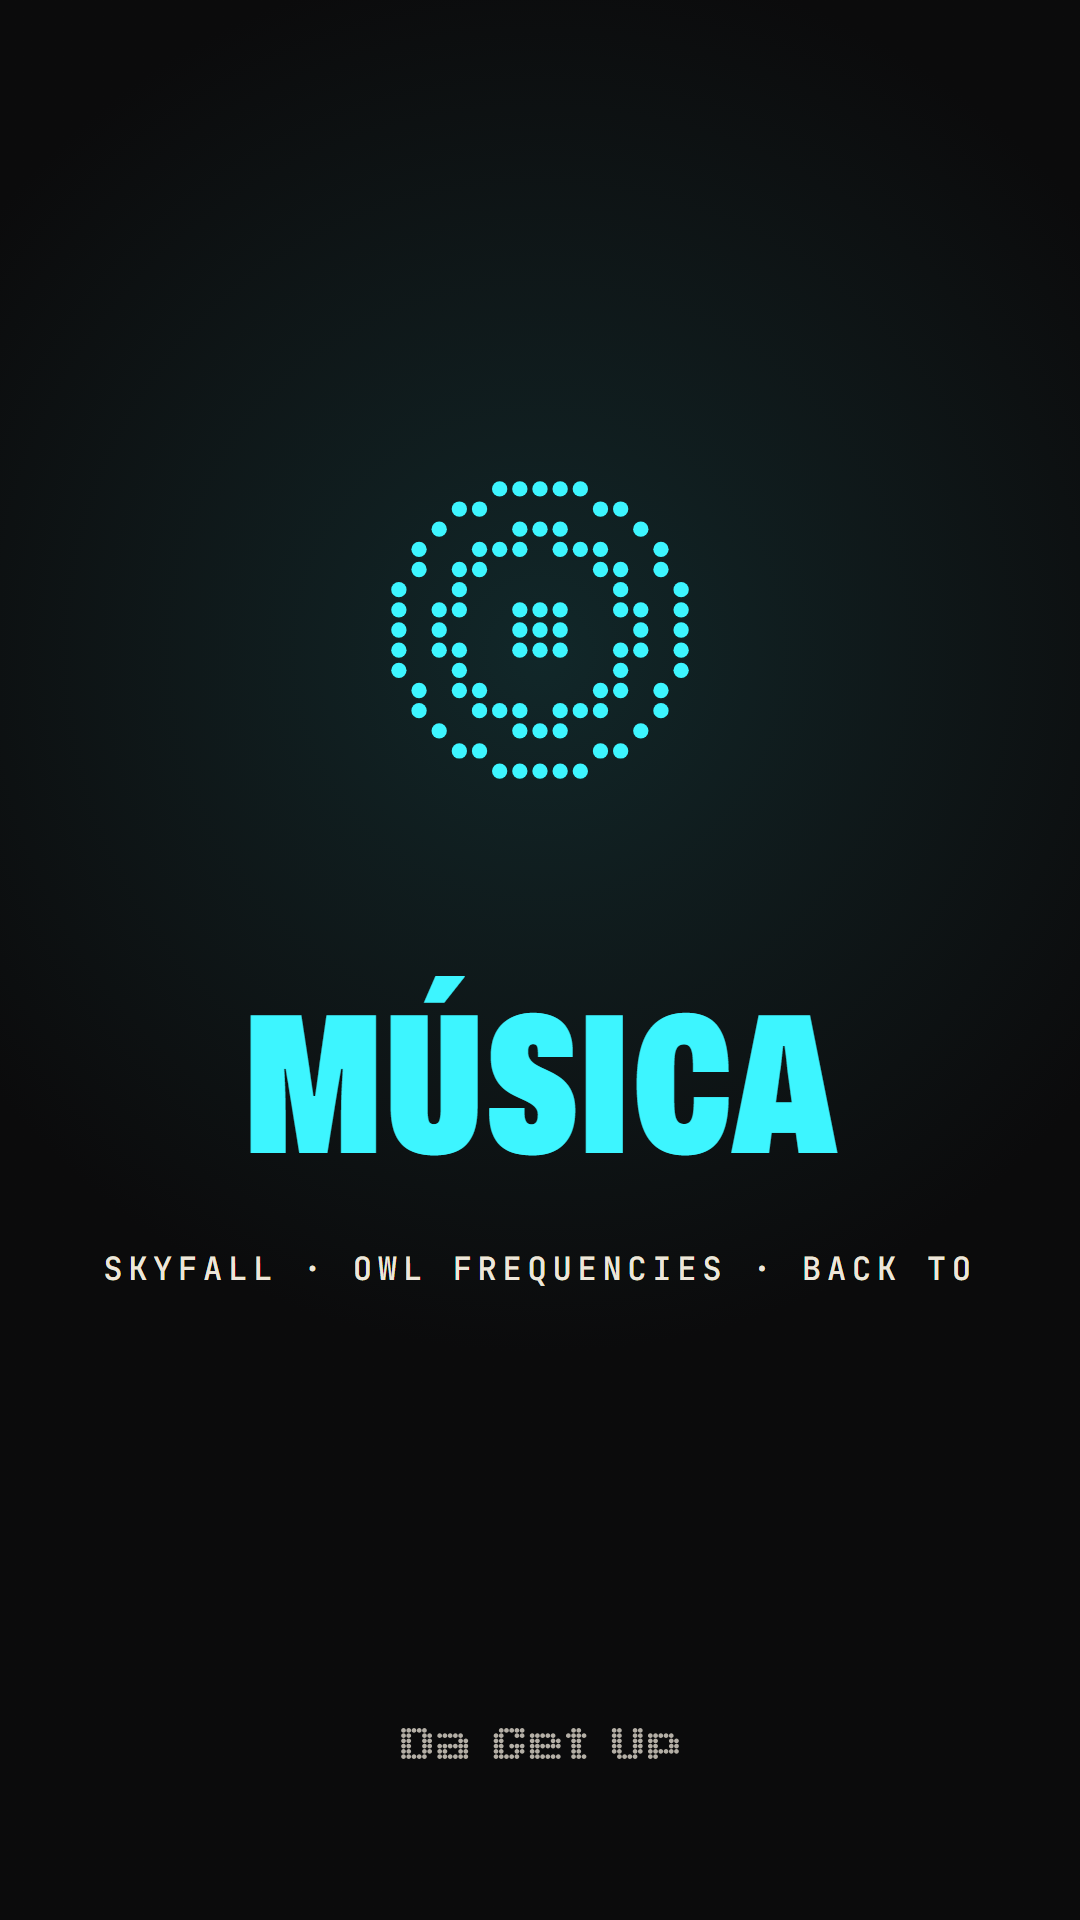
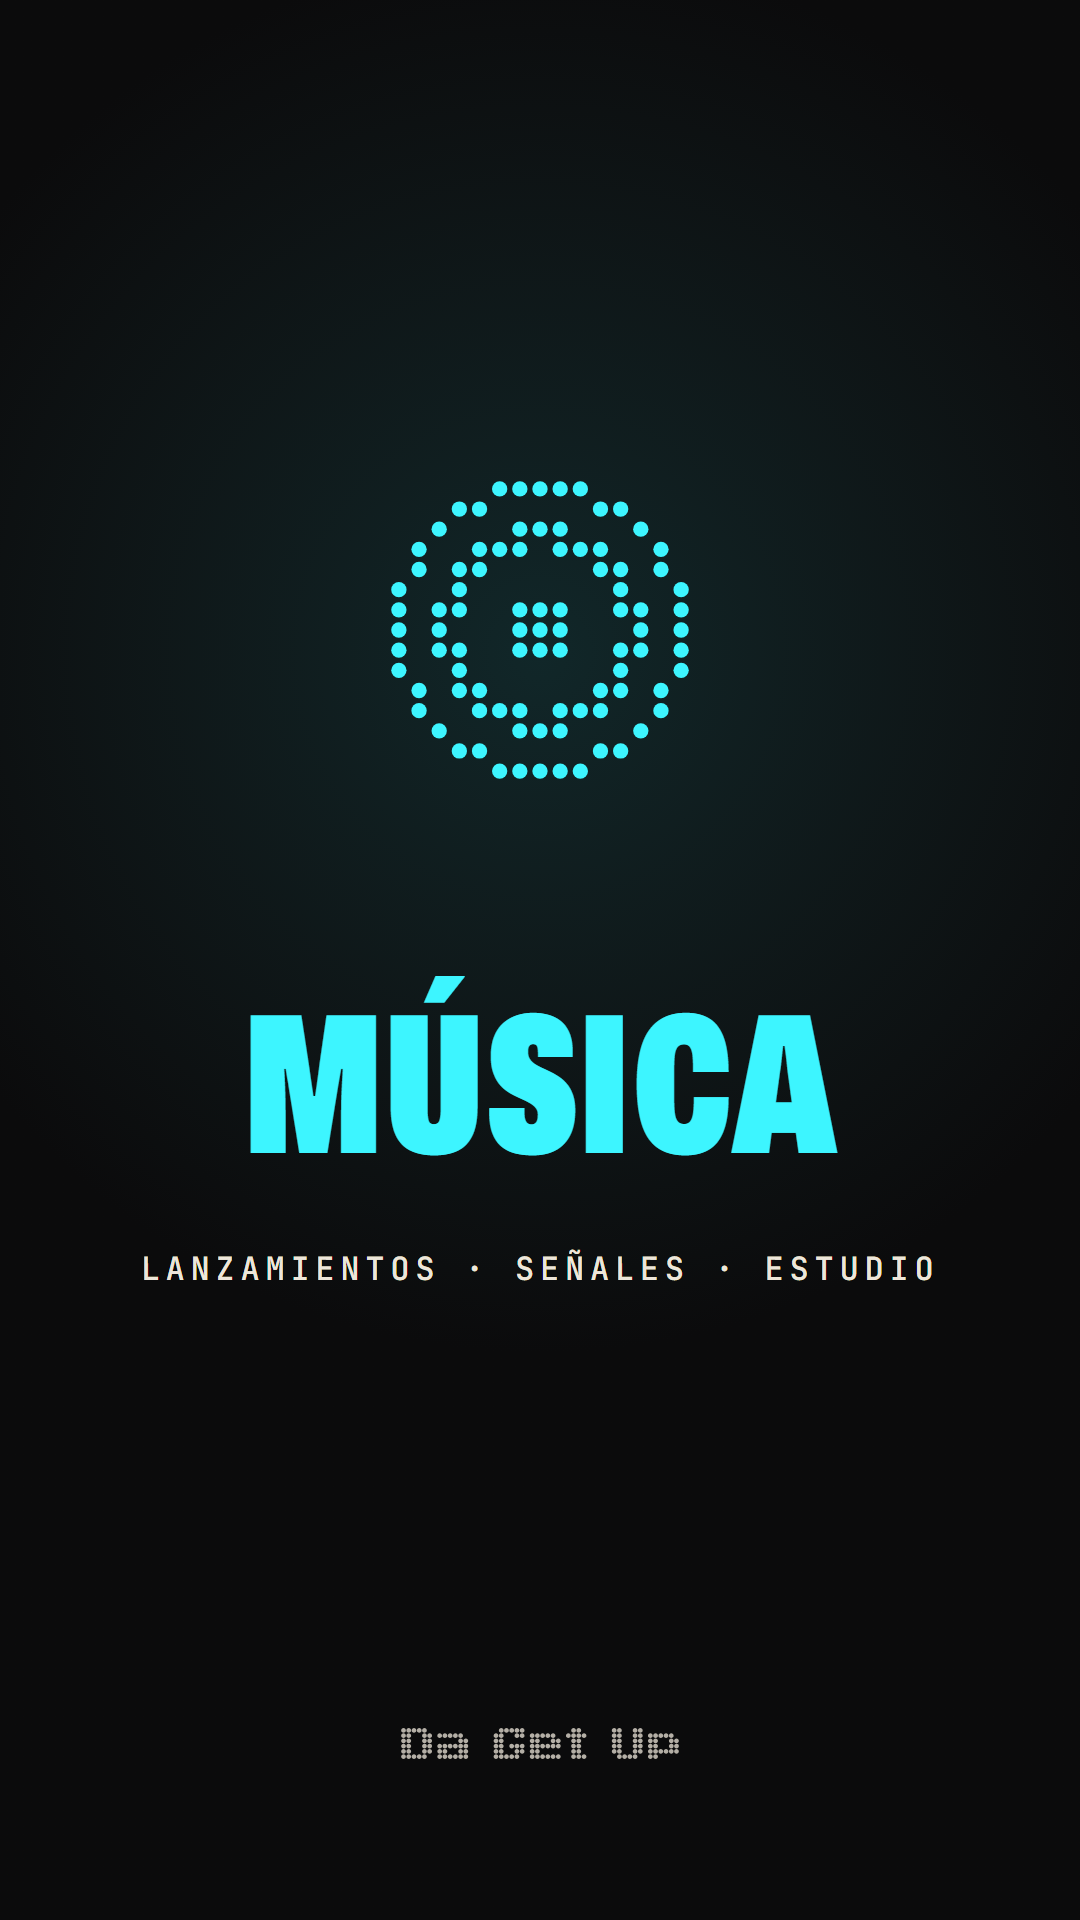
Destacadas: Shows, Música, Andar y Booking fijas + MDE temporal

Changed region(s): [[0.0917, 0.6562, 0.3972, 0.6875], [0.4278, 0.6562, 0.6722, 0.6875], [0.7028, 0.6562, 0.8861, 0.6875]]

diff --git a/ig/index.html b/ig/index.html
@@ -88,7 +88,7 @@ summary{cursor:pointer;font-family:Archivo,sans-serif;font-stretch:62%;font-weig
             <li><b>Categoría</b><span>Músico/banda · cuenta profesional</span></li>
             <li><b>Bio</b><span>La del bloque Perfil, más abajo</span></li>
             <li><b>Foto</b><span>Opción C, abajo</span></li>
-            <li><b>Destacadas</b><span>Las 6 portadas y sus tarjetas, abajo</span></li>
+            <li><b>Destacadas</b><span>Las 5 portadas y sus tarjetas, abajo</span></li>
           </ul>
           <p class="mono" style="color:var(--acido);margin:22px 0 10px">Grid: lo que se lee de arriba abajo</p>
           <ul class="links">
@@ -118,19 +118,18 @@ summary{cursor:pointer;font-family:Archivo,sans-serif;font-stretch:62%;font-weig
   <section class="post" id="destacadas" style="--era:var(--hueso)">
     <div><div class="n cond">◎</div><p class="mono muted when">Destacadas</p></div>
     <div>
-      <h2>Destacadas · 5 fijas + 1 de gira</h2>
-      <p class="how"><span class="tag on">Frecuencias</span>Cada destacada lleva un color de la paleta y un ícono de puntos; juntas muestran el espectro. MDE es temporal: va de primera hasta el 26 de noviembre. El 27 pasas lo mejor a Shows y la archivas.</p>
+      <h2>Destacadas · 4 fijas + 1 de gira</h2>
+      <p class="how"><span class="tag on">Frecuencias</span>Las cuatro fijas llevan un color cada una (ácido, hielo, calor y UV): juntas muestran el espectro completo. MDE es temporal: va de primera hasta el 26 de noviembre. El 27 pasas lo mejor a Shows y la archivas.</p>
       <p class="mono" style="color:var(--acido);margin:6px 0 10px">Portadas · se ponen en Editar destacada → Editar portada</p>
-      <div class="grid st"><figure><img src="perfil/destacadas/portada-1-mde.png?v=3" alt="MDE" loading="lazy" style="aspect-ratio:9/16;object-fit:cover"><figcaption><span class="mono">MDE</span><a class="dl" href="perfil/destacadas/portada-1-mde.png" download>Bajar</a></figcaption></figure><figure><img src="perfil/destacadas/portada-2-shows.png?v=3" alt="Shows" loading="lazy" style="aspect-ratio:9/16;object-fit:cover"><figcaption><span class="mono">Shows</span><a class="dl" href="perfil/destacadas/portada-2-shows.png" download>Bajar</a></figcaption></figure><figure><img src="perfil/destacadas/portada-3-musica.png?v=3" alt="Música" loading="lazy" style="aspect-ratio:9/16;object-fit:cover"><figcaption><span class="mono">Música</span><a class="dl" href="perfil/destacadas/portada-3-musica.png" download>Bajar</a></figcaption></figure><figure><img src="perfil/destacadas/portada-4-live.png?v=3" alt="Live" loading="lazy" style="aspect-ratio:9/16;object-fit:cover"><figcaption><span class="mono">Live</span><a class="dl" href="perfil/destacadas/portada-4-live.png" download>Bajar</a></figcaption></figure><figure><img src="perfil/destacadas/portada-5-visuales.png?v=3" alt="Visuales" loading="lazy" style="aspect-ratio:9/16;object-fit:cover"><figcaption><span class="mono">Visuales</span><a class="dl" href="perfil/destacadas/portada-5-visuales.png" download>Bajar</a></figcaption></figure><figure><img src="perfil/destacadas/portada-6-booking.png?v=3" alt="Booking" loading="lazy" style="aspect-ratio:9/16;object-fit:cover"><figcaption><span class="mono">Booking</span><a class="dl" href="perfil/destacadas/portada-6-booking.png" download>Bajar</a></figcaption></figure></div>
+      <div class="grid st"><figure><img src="perfil/destacadas/portada-1-mde.png?v=3" alt="MDE" loading="lazy" style="aspect-ratio:9/16;object-fit:cover"><figcaption><span class="mono">MDE</span><a class="dl" href="perfil/destacadas/portada-1-mde.png" download>Bajar</a></figcaption></figure><figure><img src="perfil/destacadas/portada-2-shows.png?v=3" alt="Shows" loading="lazy" style="aspect-ratio:9/16;object-fit:cover"><figcaption><span class="mono">Shows</span><a class="dl" href="perfil/destacadas/portada-2-shows.png" download>Bajar</a></figcaption></figure><figure><img src="perfil/destacadas/portada-3-musica.png?v=3" alt="Música" loading="lazy" style="aspect-ratio:9/16;object-fit:cover"><figcaption><span class="mono">Música</span><a class="dl" href="perfil/destacadas/portada-3-musica.png" download>Bajar</a></figcaption></figure><figure><img src="perfil/destacadas/portada-4-andar.png?v=3" alt="Andar" loading="lazy" style="aspect-ratio:9/16;object-fit:cover"><figcaption><span class="mono">Andar</span><a class="dl" href="perfil/destacadas/portada-4-andar.png" download>Bajar</a></figcaption></figure><figure><img src="perfil/destacadas/portada-5-booking.png?v=3" alt="Booking" loading="lazy" style="aspect-ratio:9/16;object-fit:cover"><figcaption><span class="mono">Booking</span><a class="dl" href="perfil/destacadas/portada-5-booking.png" download>Bajar</a></figcaption></figure></div>
       <p class="mono" style="color:var(--acido);margin:22px 0 10px">Tarjeta de título · la primera historia de cada destacada</p>
-      <div class="grid st"><figure><img src="perfil/destacadas/titulo-1-mde.png?v=3" alt="MDE" loading="lazy" style="aspect-ratio:9/16;object-fit:cover"><figcaption><span class="mono">MDE</span><a class="dl" href="perfil/destacadas/titulo-1-mde.png" download>Bajar</a></figcaption></figure><figure><img src="perfil/destacadas/titulo-2-shows.png?v=3" alt="Shows" loading="lazy" style="aspect-ratio:9/16;object-fit:cover"><figcaption><span class="mono">Shows</span><a class="dl" href="perfil/destacadas/titulo-2-shows.png" download>Bajar</a></figcaption></figure><figure><img src="perfil/destacadas/titulo-3-musica.png?v=3" alt="Música" loading="lazy" style="aspect-ratio:9/16;object-fit:cover"><figcaption><span class="mono">Música</span><a class="dl" href="perfil/destacadas/titulo-3-musica.png" download>Bajar</a></figcaption></figure><figure><img src="perfil/destacadas/titulo-4-live.png?v=3" alt="Live" loading="lazy" style="aspect-ratio:9/16;object-fit:cover"><figcaption><span class="mono">Live</span><a class="dl" href="perfil/destacadas/titulo-4-live.png" download>Bajar</a></figcaption></figure><figure><img src="perfil/destacadas/titulo-5-visuales.png?v=3" alt="Visuales" loading="lazy" style="aspect-ratio:9/16;object-fit:cover"><figcaption><span class="mono">Visuales</span><a class="dl" href="perfil/destacadas/titulo-5-visuales.png" download>Bajar</a></figcaption></figure><figure><img src="perfil/destacadas/titulo-6-booking.png?v=3" alt="Booking" loading="lazy" style="aspect-ratio:9/16;object-fit:cover"><figcaption><span class="mono">Booking</span><a class="dl" href="perfil/destacadas/titulo-6-booking.png" download>Bajar</a></figcaption></figure></div>
+      <div class="grid st"><figure><img src="perfil/destacadas/titulo-1-mde.png?v=3" alt="MDE" loading="lazy" style="aspect-ratio:9/16;object-fit:cover"><figcaption><span class="mono">MDE</span><a class="dl" href="perfil/destacadas/titulo-1-mde.png" download>Bajar</a></figcaption></figure><figure><img src="perfil/destacadas/titulo-2-shows.png?v=3" alt="Shows" loading="lazy" style="aspect-ratio:9/16;object-fit:cover"><figcaption><span class="mono">Shows</span><a class="dl" href="perfil/destacadas/titulo-2-shows.png" download>Bajar</a></figcaption></figure><figure><img src="perfil/destacadas/titulo-3-musica.png?v=3" alt="Música" loading="lazy" style="aspect-ratio:9/16;object-fit:cover"><figcaption><span class="mono">Música</span><a class="dl" href="perfil/destacadas/titulo-3-musica.png" download>Bajar</a></figcaption></figure><figure><img src="perfil/destacadas/titulo-4-andar.png?v=3" alt="Andar" loading="lazy" style="aspect-ratio:9/16;object-fit:cover"><figcaption><span class="mono">Andar</span><a class="dl" href="perfil/destacadas/titulo-4-andar.png" download>Bajar</a></figcaption></figure><figure><img src="perfil/destacadas/titulo-5-booking.png?v=3" alt="Booking" loading="lazy" style="aspect-ratio:9/16;object-fit:cover"><figcaption><span class="mono">Booking</span><a class="dl" href="perfil/destacadas/titulo-5-booking.png" download>Bajar</a></figcaption></figure></div>
       <ul class="links" style="margin-top:14px">
         <li><b>Cómo se crea</b><span>Sube la tarjeta de título como historia → Destacar → nueva destacada con su nombre. Después le agregas el contenido.</span></li>
         <li><b>MDE</b><span>Tarjeta + las 3 historias Takeover (en "Historias de apoyo") + cada noche confirmada</span></li>
-        <li><b>Shows</b><span>Tarjeta + Europa 2022 + festivales + Medellín, en orden cronológico (se lee como una carrera que crece)</span></li>
-        <li><b>Música</b><span>Tarjeta + las 3 historias de Skyfall + compartir los posts 04, 05 y 06</span></li>
-        <li><b>Live</b><span>Tarjeta + compartir el post 02 + clips tocando</span></li>
-        <li><b>Visuales</b><span>Tarjeta + compartir el post 07 y las Señales</span></li>
+        <li><b>Shows</b><span>Tarjeta + toques y tocando en vivo: Europa 2022, festivales y Medellín, en orden cronológico</span></li>
+        <li><b>Música</b><span>Tarjeta + lanzamientos, Señales y estudio: las 3 historias de Skyfall y los posts 04, 05, 06 y 07</span></li>
+        <li><b>Andar</b><span>Tarjeta + lugares, viajes, ruta y día a día con criterio. Viene de El Andar: cada punto es un paso del camino</span></li>
         <li><b>Booking</b><span>Tarjeta con sticker de enlace a werock.space/dagetup</span></li>
         <li><b>Regla</b><span>De 3 a 5 historias por evento y de 30 a 40 por destacada. Una vez al mes se limpia lo repetido y lo borroso.</span></li>
       </ul>

diff --git a/ig/src/grid.html b/ig/src/grid.html
@@ -50,9 +50,8 @@ const HL = [
   { t: 'MDE', c: 'var(--acido)', g: () => word('MDE', '#d4ff00', 30) },
   { t: 'Shows', c: 'var(--acido)', g: () => DOT(15, 15, (x, y) => { const dx = x - 7, dy = y - 7, r = Math.hypot(dx, dy); if (r > 7.5) return false; return Math.abs(r - 7) < .5 || (y === 7 && r < 7) || (Math.abs(Math.abs(dx) - 3.6 * Math.sqrt(Math.max(0, 1 - dy * dy / 49))) < .5 && r < 7); }, '#d4ff00', 30) },
   { t: 'Música', c: 'var(--hielo)', g: () => DOT(15, 15, (x, y) => { const r = Math.hypot(x - 7, y - 7); return (Math.abs(r - 7) < .5 || Math.abs(r - 4.6) < .5 || r < 1.6) ? true : false; }, '#3df5ff', 30) },
-  { t: 'Live', c: 'var(--calor)', g: () => { const h = [3, 6, 9, 5, 11, 7, 4, 8, 10, 6, 3]; return DOT(11, 11, (x, y) => 10 - y < h[x] ? true : false, '#ff2e7e', 34); } },
-  { t: 'Visuales', c: 'var(--uv)', g: () => `<img src="${BUHO('blanco')}" style="width:560px;filter:drop-shadow(0 0 0 #7b2cff)">` },
-  { t: 'Booking', c: 'var(--hueso)', g: () => DOT(11, 11, (x, y) => (y === 0 && x >= 4) || (x === 10 && y <= 6) || (x + y === 10 && x >= 1) ? true : false, '#ede6da', 40) },
+  { t: 'Andar', c: 'var(--calor)', g: () => { const pts = []; for (let k = 0; k <= 60; k++) { const u = k / 60; pts.push([1.5 + u * 11, 13 - u * 11 + Math.sin(u * Math.PI * 2) * 3.2]); } return DOT(15, 15, (x, y) => { const d = Math.min(...pts.map(([px, py]) => Math.hypot(x - px, y - py))); const end = Math.hypot(x - 12.5, y - 2) < 1.7; const start = Math.hypot(x - 1.5, y - 13) < 1.1; return end || start ? true : d < .75 ? true : false; }, '#ff2e7e', 30); } },
+  { t: 'Booking', c: 'var(--uv)', g: () => DOT(11, 11, (x, y) => (y === 0 && x >= 4) || (x === 10 && y <= 6) || (x + y === 10 && x >= 1) ? true : false, '#7b2cff', 40) },
 ];
 function hl(i, px = 1080, story = true) {
   const h = HL[i];
@@ -82,10 +81,10 @@ const POSTS = {
 };
 const CARD = [
   { t: "Medellín<br>Takeover", sub: "13 — 26 · 11 · 2026" },
-  { t: "Shows", sub: "Europa 2022 — Medellín 2026" },
-  { t: "Música", sub: "Skyfall · Owl Frequencies · Back To" },
-  { t: "Live", sub: "Voz · teclados · Ableton" },
-  { t: "Visuales", sub: "Señales · loops · el búho" },
+  { t: "Shows", sub: "Europa 2022 — Medellín 2026 · en vivo" },
+  { t: "Música", sub: "Lanzamientos · Señales · estudio" },
+  { t: "Andar", sub: "Lugares · ruta · día a día" },
+  { t: "Booking", sub: "Live act · DJ set<br>werock.space/dagetup · DM o WhatsApp" },
 ];
 function card(i) {
   const h = HL[i], c = CARD[i];
@@ -100,7 +99,7 @@ const post = i => `<div style="position:absolute;inset:0">${POSTS[i].html}${i > 
 // ---------- Mockup del perfil ----------
 function perfil(o) {
   const W = 1180, cell = (W - 8) / 3;
-  const hls = HL.map((h, i) => `<div style="display:grid;justify-items:center;gap:14px"><div style="width:146px;height:146px;border-radius:50%;padding:5px;border:2px solid #3a3a3e"><div style="position:relative;width:100%;height:100%;border-radius:50%;overflow:hidden"><img src="/dagetup-medellin/ig/perfil/destacadas/portada-${i + 1}-${["mde","shows","musica","live","visuales","booking"][i]}.png" style="width:100%;height:100%;object-fit:cover"></div></div><span style="font:600 23px Inter;color:#ede6da">${h.t}</span></div>`).join('');
+  const hls = HL.map((h, i) => `<div style="display:grid;justify-items:center;gap:14px"><div style="width:146px;height:146px;border-radius:50%;padding:5px;border:2px solid #3a3a3e"><div style="position:relative;width:100%;height:100%;border-radius:50%;overflow:hidden"><img src="/dagetup-medellin/ig/perfil/destacadas/portada-${i + 1}-${["mde","shows","musica","andar","booking"][i]}.png" style="width:100%;height:100%;object-fit:cover"></div></div><span style="font:600 23px Inter;color:#ede6da">${h.t}</span></div>`).join('');
   const order = [9, 8, 7, 6, 5, 4, 3, 2, 1];
   const grid = order.map(i => `<div style="position:relative;width:${cell}px;height:${cell * 4 / 3}px;overflow:hidden"><div style="position:absolute;left:0;top:0;width:1080px;height:1440px;transform:scale(${cell / 1080});transform-origin:0 0">${post(i)}</div>${POSTS[i].f === 'Reel' ? '<svg style="position:absolute;right:16px;top:16px" width="34" height="34" viewBox="0 0 24 24"><path d="M8 5v14l11-7z" fill="#fff"/></svg>' : POSTS[i].f === 'Carrusel' ? '<svg style="position:absolute;right:16px;top:16px" width="34" height="34" viewBox="0 0 24 24"><rect x="7" y="3" width="13" height="13" rx="2" fill="none" stroke="#fff" stroke-width="2"/><rect x="3" y="7" width="13" height="13" rx="2" fill="#fff"/></svg>' : ''}</div>`).join('');
   return `<div style="width:${W}px;background:#000;color:#ede6da;font-family:Inter,sans-serif">
